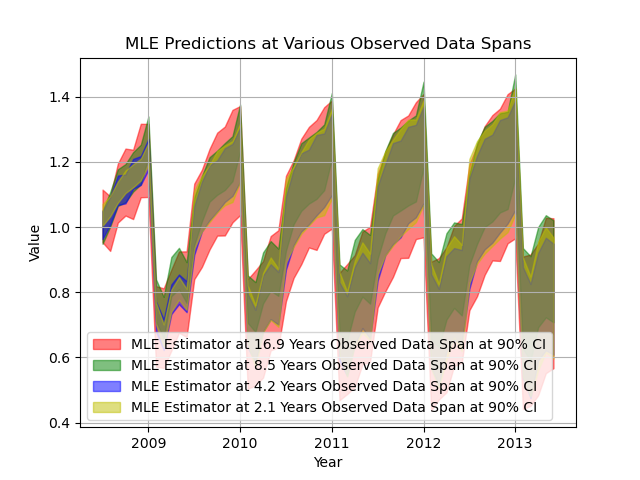
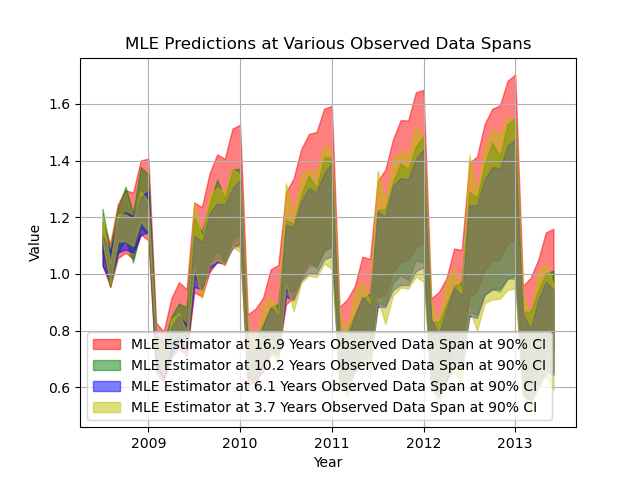
Make all examples with strictly positive observations by using an exponential transform.

diff --git a/ARIMA/examples/mle.py b/ARIMA/examples/mle.py
@@ -12,6 +12,10 @@ import os
 from ARIMA import ARIMA
 from ARIMA.examples.utils import load_data, calc_percentiles, plots_dir, timeit
 from ARIMA.examples import __name__ as __examples__name__
+from torch.distributions.transforms import ExpTransform
+
+def create_model():
+    return ARIMA(3, 0, 1, 0, 1, 2, 12, output_transforms=[ExpTransform()])
 
 @timeit
 def fit(model, observations,
@@ -40,7 +44,7 @@ def predict(model, innovations, num_samples, num_predictions):
         all_innovations = pt.cat([innovations, new_innovations])
         all_observations = model.predict(all_innovations).detach().numpy()
         samples.append(all_observations)
-    return np.array(samples)[...,len(innovations):]
+    return np.array(samples)[..., len(innovations):]
 
 if __name__ == "__main__" or __examples__name__ == "__main__":
     ##########################################
@@ -48,7 +52,7 @@ if __name__ == "__main__" or __examples__name__ == "__main__":
     ##########################################
     year, observations = load_data()
 
-    model = ARIMA(3,0,1,0,1,2,12)
+    model = create_model()
 
     fit_result = fit(model, observations)
     
@@ -84,7 +88,7 @@ if __name__ == "__main__" or __examples__name__ == "__main__":
     #########################################################
     # Show effect of amount of training data on predictions #
     #########################################################
-    ratios = [1,1/2,1/4,1/8]
+    ratios = 0.6 ** np.arange(4)
     models = []
     indices = []
     fit_results = []
@@ -92,7 +96,7 @@ if __name__ == "__main__" or __examples__name__ == "__main__":
     for ratio in ratios:
         n = len(observations)
         indices.append(range(round((1 - ratio)*n), n))
-        models.append(ARIMA(3,0,1,0,1,2,12))
+        models.append(create_model())
         fit_results.append(fit(models[-1], observations[indices[-1]]))
         samples.append(predict(models[-1], fit_results[-1]['innovations'], num_samples, num_predictions))
 

diff --git a/ARIMA/examples/bayesian.py b/ARIMA/examples/bayesian.py
@@ -14,12 +14,14 @@ from ARIMA import BayesianARIMA
 from ARIMA.examples.utils import load_data, calc_percentiles, plots_dir, timeit
 from ARIMA.pyro_utils import calc_obs_log_prob
 from ARIMA.examples import __name__ as __examples__name__
+from torch.distributions.transforms import ExpTransform
 
 def create_model(obs_idx, num_predictions):
     # Create model with non-overlapping observed and predicted sample indices.
     predict_idx = [*range(max(obs_idx) + 1 + num_predictions)]
     predict_idx = [idx for idx in predict_idx if idx not in obs_idx]
-    return BayesianARIMA(3, 0, 1, 0, 1, 2, 12, obs_idx=obs_idx, predict_idx=predict_idx)
+    return BayesianARIMA(3, 0, 1, 0, 1, 2, 12,
+                         obs_idx=obs_idx, predict_idx=predict_idx, output_transforms=[ExpTransform()])
 
 @timeit
 def fit(model, observations,
@@ -33,6 +35,7 @@ def fit(model, observations,
     guide = pyro.infer.autoguide.guides.AutoMultivariateNormal(model)
     guide(observations)
     guide.loc.data[:] = 0
+    guide.scale_unconstrained.data[:] = -5
     loss = loss(**loss_params)
     for lr, num_iter in lr_sequence:
         optimizer = pyro.optim.Adam(dict(lr=lr))
@@ -88,7 +91,7 @@ if __name__ == '__main__' or __examples__name__ == '__main__':
     #########################################################
     # Show effect of amount of training data on predictions #
     #########################################################
-    ratios = [1,1/2,1/4,1/8][::-1]
+    ratios = (0.6 ** np.arange(4))[::-1]
     models = []
     indices = []
     guides = []

diff --git a/ARIMA/pyro_utils.py b/ARIMA/pyro_utils.py
@@ -1,10 +1,13 @@
 import torch as pt
 import pyro
+import dill
+from io import BytesIO
 from pyro import distributions, poutine
 from pyro.nn import PyroSample, PyroParam
 from pyro.infer import Importance, Trace_ELBO
 from pyro.infer.importance import vectorized_importance_weights
 from typing import NamedTuple, Any
+from functools import partial
 
 def make_params_pyro(module, sample_names=True, dist_class=distributions.Normal, dist_params=dict(loc=0, scale=5)):
     '''
@@ -78,7 +81,7 @@ class ModifiedModelGuide:
                                 guide_trace.nodes[node]['value'].shape != model_trace.nodes[node]['value'].shape)
         model_block_nodes = set(node for node in model_trace.nodes if
                                 node not in guide_trace.nodes)
-        def modified_model_guide(*args, **kwargs):
+        def modified_model_guide(*ignore_args, **ignore_kwargs):
             trace = poutine.trace(poutine.block(guide, hide=guide_block_nodes)).get_trace()
             return poutine.block(poutine.replay(model, trace=trace), hide=set(trace.nodes).union(model_block_nodes))(*args, **kwargs)
         self.model = model
@@ -89,3 +92,12 @@ class ModifiedModelGuide:
 
     def __call__(self, *args, **kwargs):
         return self.modified_model_guide(*args, **kwargs)
+
+load = partial(pt.load, pickle_module=dill)
+save = partial(pt.save, pickle_module=dill)
+
+def clone(model):
+    buffer = BytesIO()
+    save(model, buffer)
+    buffer.seek(0)
+    return load(buffer)

diff --git a/ARIMA/BayesianTimeSeries.py b/ARIMA/BayesianTimeSeries.py
@@ -32,9 +32,13 @@ class BayesianTimeSeries(PyroModule):
     def __init__(self, model, innovations, obs_idx, predict_idx):
         super().__init__()
         self.model = model
-        # Creating latent variables
+        # Creating model latent variables
         make_params_pyro(self)
         self.innovations_dist = innovations
+        self.set_indices(obs_idx, predict_idx)
+
+    def set_indices(self, obs_idx, predict_idx):
+        # Create innovations
         self.predict_innovations = PyroSample(lambda self: self.innovations_dist(len(self.predict_idx)))
         # Validate and store indices
         self.obs_idx = [*obs_idx]
@@ -42,6 +46,7 @@ class BayesianTimeSeries(PyroModule):
         if set(self.obs_idx).union(set(self.predict_idx)) != \
            set(range(len(self.obs_idx) + len(self.predict_idx))):
             raise UserWarning('Indices of observations and predictions must be complementary.')
+        return self
 
     def innovations(self):
         # Build innovations vector
